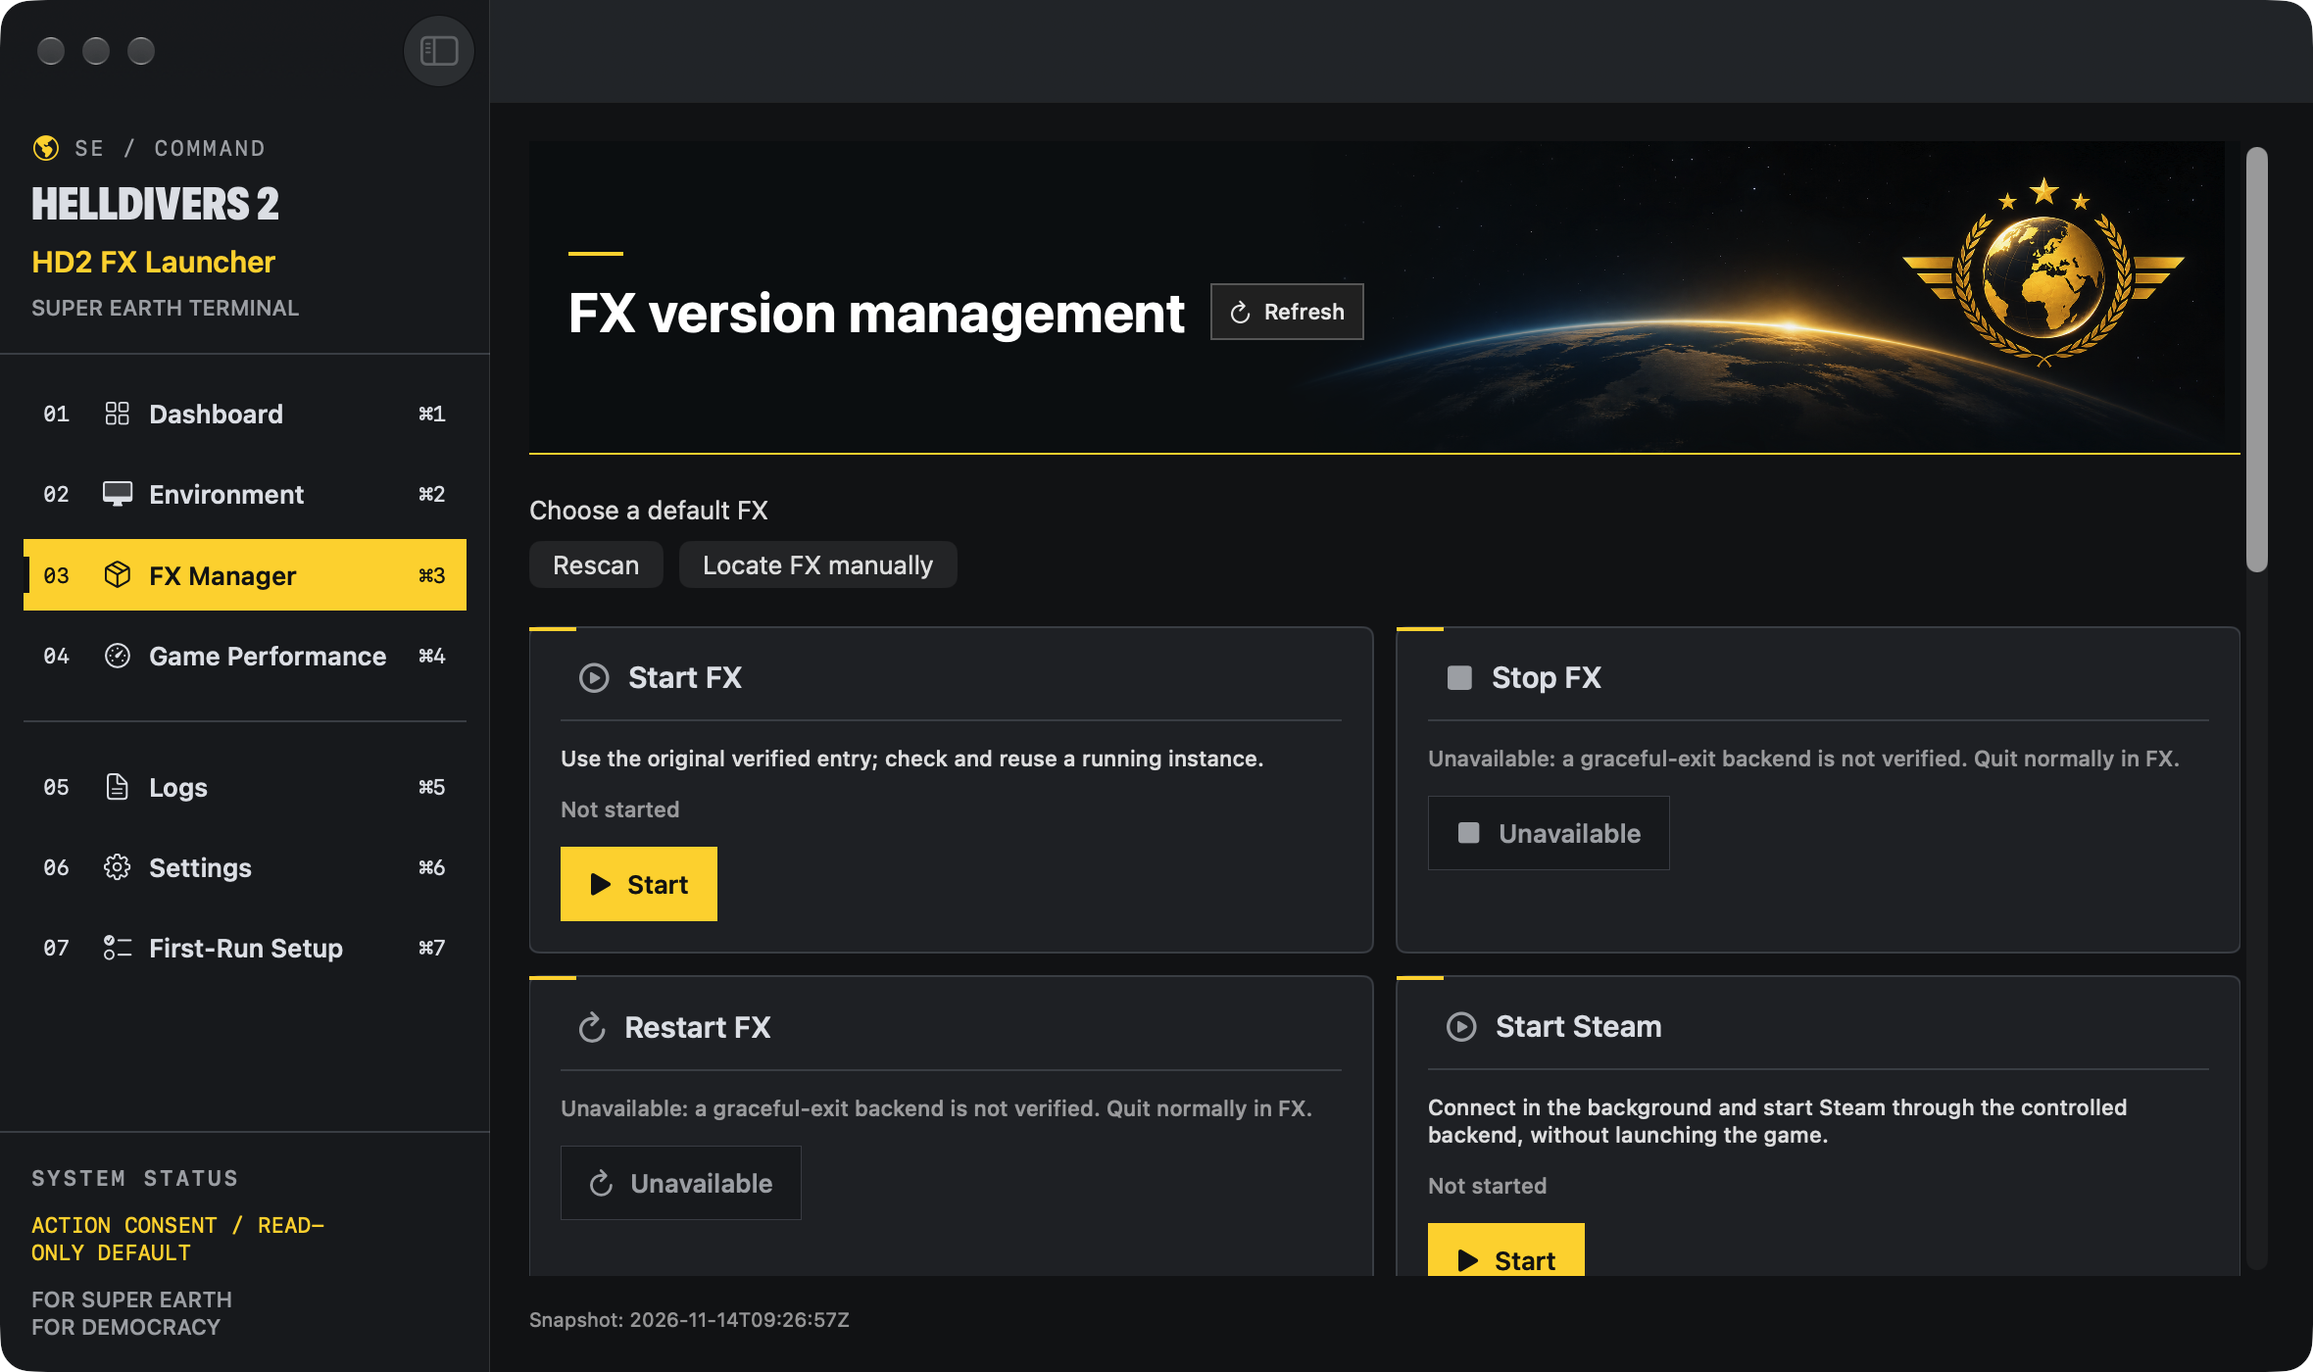
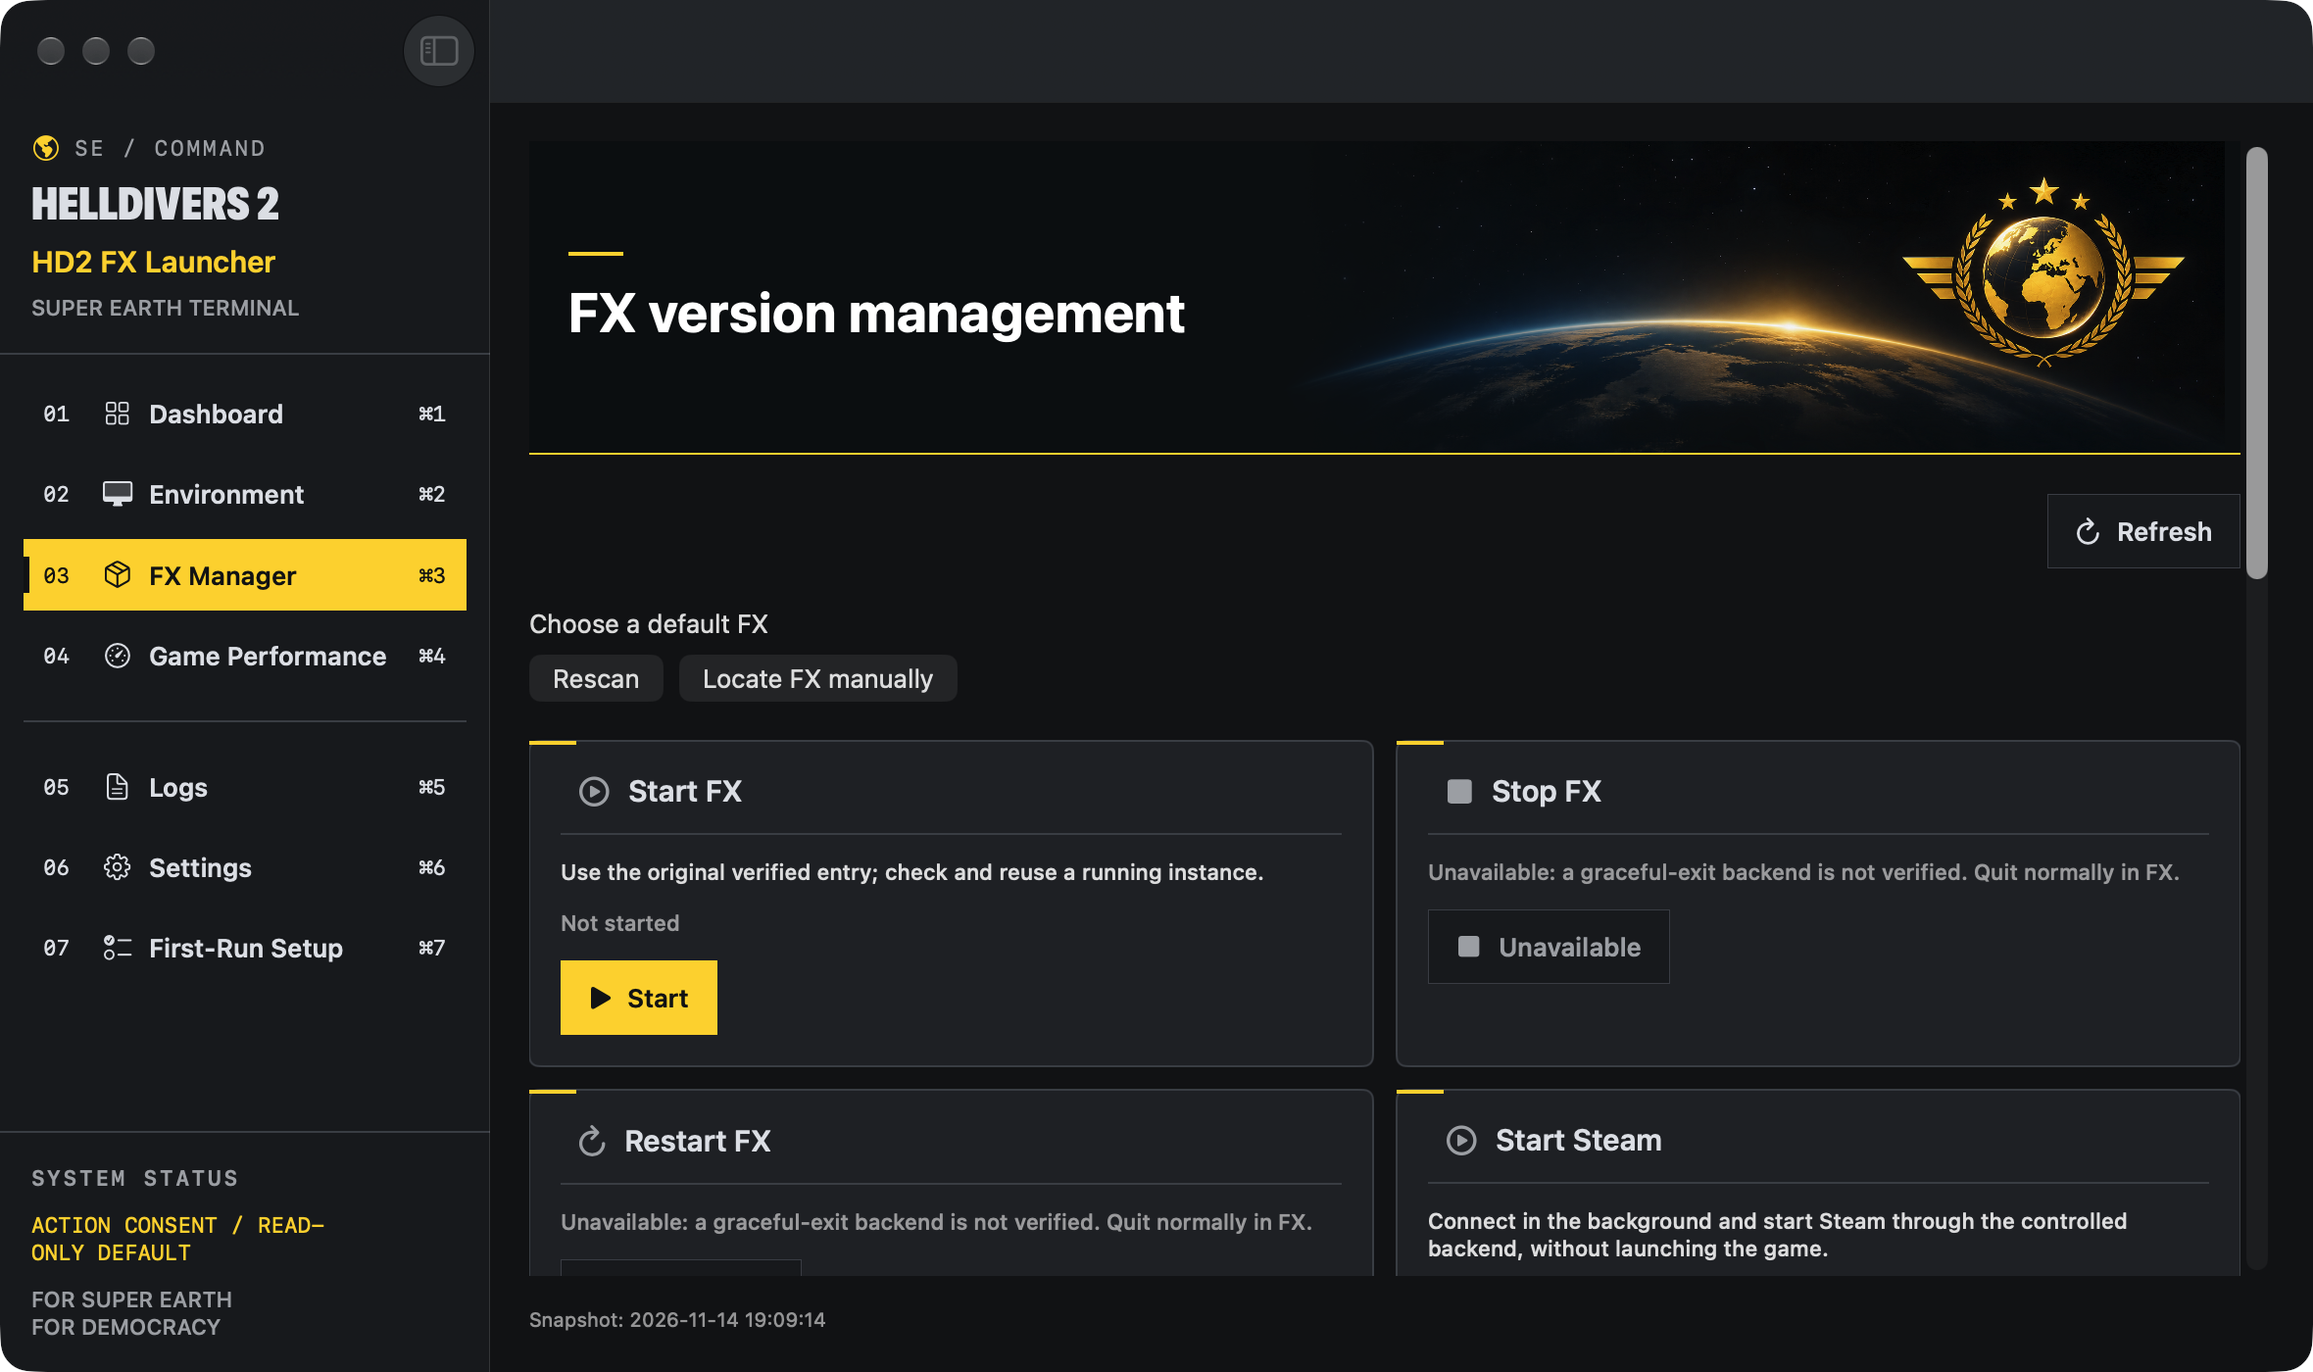
ui: unify snapshot refresh and design standards

diff --git a/native-app/App/DesignSystem/TacticalComponents.swift b/native-app/App/DesignSystem/TacticalComponents.swift
@@ -59,17 +59,9 @@ struct FXTechnicalDetails: View {
     @ObservedObject var tasks: TaskManager
     private var selected: [String: JSONValue] { state.fxSelection.selected ?? [:] }
 
+    // Use the existing inspection result; hashing bundle resources in body blocks the main thread.
     private var resourceRows: [JSONValue] {
-        state.targetInspection["resource_files"]?.array ?? LaunchResources.report()["resource_files"]?.array ?? []
-    }
-    private var resourceState: String {
-        let stateText = LaunchResources.gvproxyState().state
-        switch stateText {
-        case "ready": return state.t("ui.130")
-        case "missing": return state.t("ui.209")
-        case "hash_mismatch": return state.t("ui.fx.statusFailed")
-        default: return state.t("ui.041")
-        }
+        state.targetInspection["resource_files"]?.array ?? []
     }
     private var preflightText: String {
         if let error = state.targetInspectionError { return error.code }
@@ -96,6 +88,9 @@ struct FXTechnicalDetails: View {
             }
             TacticalDivider()
             TacticalSectionHeader(number: "B", title: state.t("ui.fx.details.resources"), symbol: "shippingbox")
+            if resourceRows.isEmpty {
+                Text(state.t("ui.208")).font(TacticalTypography.caption).foregroundStyle(.secondary)
+            }
             ForEach(Array(resourceRows.enumerated()), id: \.offset) { _, row in
                 let name = row.object["file"]?.text ?? "—"
                 let actual = row.object["actual_sha256"]?.text ?? ""
@@ -295,7 +290,6 @@ struct TacticalNavigationItem: View {
 // One shared secondary-page banner. Artwork is bundled, decorative and noninteractive.
 struct TacticalPageHeader: View {
     let title: String
-    var refreshState: AppState? = nil
     private let height: CGFloat = 160
     var body: some View {
         GeometryReader { geometry in
@@ -320,13 +314,9 @@ struct TacticalPageHeader: View {
                         Text(title).font(TacticalTypography.page).foregroundStyle(.white)
                             .fixedSize(horizontal: false, vertical: true)
                             .accessibilityIdentifier("page.title").accessibilityAddTraits(.isHeader)
-                        if let refreshState {
-                            TacticalRefreshButton(state: refreshState, tasks: refreshState.tasks)
-                                .fixedSize()
-                        }
                     }
                 }
-                // Reserve the right-hand emblem region so neither title nor button covers it.
+                // Reserve the right-hand emblem region for the artwork.
                 .frame(width: max(1, geometry.size.width - 230), alignment: .leading)
                 .padding(.leading, 20)
             }
@@ -426,21 +416,16 @@ struct TacticalRefreshButton: View {
     @ObservedObject var state: AppState
     @ObservedObject var tasks: TaskManager
     var body: some View {
-        Button { state.refresh() } label: {
-            HStack(spacing: 6) {
-                if state.refreshing { ProgressView().controlSize(.mini) }
-                else { Image(systemName: "arrow.clockwise") }
-                Text(state.t("ui.262"))
-            }.font(TacticalTypography.caption).padding(.horizontal, 9).padding(.vertical, 7)
+        HStack {
+            Spacer(minLength: 0)
+            TacticalButton(title: state.t("ui.262"), symbol: "arrow.clockwise",
+                           loading: state.refreshing,
+                           disabledReason: tasks.busy ? state.t("ui.016") : nil) {
+                state.refresh()
+            }
+            .help(state.t("ui.263"))
+            .accessibilityIdentifier("refresh")
         }
-        .buttonStyle(.plain)
-        .foregroundStyle(Color(white: 0.92))
-        .background(Color(white: 0.14))
-        .overlay(Rectangle().stroke(Color(white: 0.38), lineWidth: 1))
-        .opacity(tasks.busy ? 0.55 : 1)
-        .disabled(tasks.busy)
-        .help(state.t("ui.263"))
-        .accessibilityIdentifier("refresh")
     }
 }
 

diff --git a/native-app/Views/LogsView.swift b/native-app/Views/LogsView.swift
@@ -55,7 +55,8 @@ struct LogsView: View {
     var body: some View {
         let c = TacticalColors(scheme: scheme)
         VStack(alignment: .leading, spacing: 18) {
-            TacticalPageHeader(title: state.t("ui.306"), refreshState: state)
+            TacticalPageHeader(title: state.t("ui.306"))
+            TacticalRefreshButton(state: state, tasks: state.tasks)
             TacticalWarningBanner(text: state.t("ui.017"))
             if exportFailed { TacticalWarningBanner(text: state.t("ui.logs.exportFailed"), isError: true) }
             DisclosureGroup(state.t("ui.096")) { LegacyOperationsView(state: state, scope: "logs") }

diff --git a/native-app/Views/FirstRunSetupView.swift b/native-app/Views/FirstRunSetupView.swift
@@ -45,7 +45,7 @@ struct FirstRunSetupView: View {
             DisclosureGroup(state.t("ui.workflow.advanced")) {
             TacticalPanel(number: "1", title: state.t("ui.setup.fx"), symbol: "shippingbox") {
                 HStack {
-                    Button(state.t("ui.fx.rescan")) { state.scanFX() }
+                    Button(state.t("ui.fx.rescan")) { state.scanFX() }.disabled(tasks.busy)
                     Button(state.t("ui.setup.choose")) { state.selection = .fx }
                 }
                 Text(state.fxVersion + " · " + (state.fxSelection.selectedPath ?? state.t("ui.368"))).textSelection(.enabled)

diff --git a/native-app/Views/EnvironmentView.swift b/native-app/Views/EnvironmentView.swift
@@ -25,7 +25,8 @@ struct EnvironmentView: View {
     }
     var body: some View {
         VStack(alignment: .leading, spacing: 20) {
-            TacticalPageHeader(title: state.t("ui.108"), refreshState: state)
+            TacticalPageHeader(title: state.t("ui.108"))
+            TacticalRefreshButton(state: state, tasks: state.tasks)
             GUIOperationsPanel(state: state, tasks: state.tasks)
             TacticalButton(title: state.t("ui.ssh.test"), symbol: "network", disabledReason: state.tasks.busy ? state.t("ui.016") : nil) {
                 state.operationSelection = NativeOperation(method: "test_ssh")

diff --git a/native-app/Views/FXManagerView.swift b/native-app/Views/FXManagerView.swift
@@ -6,7 +6,8 @@ struct FXManagerView: View {
     @State private var locatingFX = false
     var body: some View {
         VStack(alignment: .leading, spacing: 20) {
-            TacticalPageHeader(title: state.t("ui.124"), refreshState: state)
+            TacticalPageHeader(title: state.t("ui.124"))
+            TacticalRefreshButton(state: state, tasks: state.tasks)
             if state.results["list_fx_versions"]?["scan_incomplete"]?.boolean == true {
                 TacticalWarningBanner(text: scanWarning + " " + state.t("ui.357"))
             }

diff --git a/AGENTS.md b/AGENTS.md
@@ -1,7 +1,7 @@
 # HD2FXNative development rules
 
-Instruction version: **v1.2.24** · Updated: **2026-11-14**.
-Change: limit worktree creation and require safe completion review. Instruction version is independent of App version.
+Instruction version: **v1.2.25** · Updated: **2026-11-14**.
+Change: establish shared UI design standards and review requirements. Instruction version is independent of App version.
 
 ## Authority and task lifecycle
 
@@ -37,3 +37,15 @@ Change: limit worktree creation and require safe completion review. Instruction 
 - Typical commands are in the handoff; `script/check_docs.py`, Native localization and screenshot provenance gates apply where affected. Release requires clean committed source, fresh arm64 build, resources/icon/locales, ad-hoc or authorized signing, package validation and separate artifact hashes. Never relabel an old build as new.
 - Distinguish main implementation, branch candidate, automated PASS, blocked/incomplete and pending user hardware acceptance. Compilation/Mock/process detection never proves current game menu, single-player, EAC or multiplayer success. Report command/source/results honestly, including failed gates and unverified installation/rollback/relaunch.
 - Finish with a concise report of changes, tests, commit, remote branch/push, main integration and unresolved issues. Mark COMPLETED only after required tests, commit, push, remote containment, main decision and required live acceptance; otherwise use PARTIAL or BLOCKED with the reason. Continue independent work when blocked. Default to no extra reports or screenshots unless needed for evidence, investigation, audit or release. Existing successful historical records remain historical. Update this instruction version for rule changes, without accumulating entire old prompts.
+
+## UI Design Standards
+
+All subsequent UI work must first follow `docs/UI_DESIGN_GUIDELINES.md`: read the rules, reuse existing components, implement, review consistency and all ten languages, then verify and commit. This section supersedes older instructions requiring controls beside page titles.
+
+- Maintain the dark, yellow-accented HELLDIVERS 2 tactical style, consistent hierarchy, cards, spacing and restrained decoration. Titles and necessary explanations belong in headers; place actions in the content area.
+- Reuse shared buttons and cards. Review idle, hover, pressed, disabled, loading and, when applicable, success and failure states. Do not duplicate an operation or introduce unstyled default buttons.
+- Before adding refresh, consider an existing action or event-driven updates. A necessary independent refresh belongs at the right of a content toolbar and uses the shared refresh component; prevent duplicate requests and show progress.
+- Preserve consistent margins, button heights, card spacing, icon sizes, alignment and action placement. Adapt to narrow windows and long text.
+- Localize all visible additions in zh-CN, en, ja, ko, ru, es, de, fr, pt-BR and zh-TW; do not hardcode UI prose. Check long translations for clipping.
+- Preserve the SwiftUI + AppKit hybrid: SwiftUI owns presentation and normal interactions, AppKit native macOS capabilities, and the existing Swift Service Layer business state. Components must not create a duplicate business state system.
+- Review changed pages for visual consistency, action placement and duplication, clipping, loading, errors, accessibility and ten-language adaptation. Provide real App screenshots for substantial visual changes; routine code changes do not require screenshots.

diff --git a/docs/UI_DESIGN_GUIDELINES.md b/docs/UI_DESIGN_GUIDELINES.md
@@ -1,0 +1,28 @@
+# UI design guidelines
+
+Read this document before UI development. Reuse the implementation in `native-app/App/DesignSystem/TacticalComponents.swift` and its `TacticalColors` and `TacticalTypography` definitions as the source of truth for colors, typography, spacing and sizing. Avoid copying token values into documentation or new views.
+
+## Visual language and layout
+
+Keep the dark HELLDIVERS 2 tactical identity, yellow emphasis for primary actions, clear information hierarchy and restrained decoration. Use `TacticalPageHeader` for secondary-page titles and the existing dashboard presentation for the overview. Keep action controls in content areas, aligned consistently, and use adaptive layouts for narrow windows and long translations. Use `TacticalPanel`, metrics and status badges for related evidence; distinguish unchecked, checking, success, warning, failure and uncertainty without inventing health.
+
+## Actions and refresh
+
+Use `TacticalButton` and `TacticalButtonStyle` for primary and secondary actions, preserving hover, pressed, focus, disabled and loading feedback. Convey success and failure using actual service results. Avoid duplicate actions. Prefer event-driven updates and existing detection actions over independent refresh. When an independent snapshot refresh is necessary, place `TacticalRefreshButton` at the right of the content toolbar; it uses existing AppState and TaskManager, disables repeat requests and displays progress. Scoped scans and global snapshots have different purposes and must be labelled accordingly. Do not put action buttons beside page titles.
+
+## Loading and dialogs
+
+Use the shared button loading state or a native progress indicator for ongoing work; bind it to the existing service/task state. Show real errors and recovery options. Use sheets or dialogs for credentials, target selection, important conflicts and consequential confirmation; retain existing safeguards and avoid unnecessary modal interruptions.
+
+## Localization and accessibility
+
+Maintain all ten existing languages through the localization resources. Avoid hardcoded user-visible prose; test long text at narrow widths without truncating meaningful information. Label controls for VoiceOver, hide decorative icons and artwork, preserve keyboard focus and shortcuts, and do not convey status by color alone.
+
+## New page checklist
+
+- Read AGENTS.md and this guide; reuse shared components and design tokens.
+- Check title, margins, action placement, card hierarchy and narrow layouts.
+- Check for duplicate actions and determine whether refresh is necessary.
+- Verify hover, pressed, disabled, loading, success and error states where applicable.
+- Check VoiceOver labels, keyboard navigation and all ten languages, including long translations.
+- Build and run appropriate tests; inspect real App screenshots for substantial visual changes and report any missing verification honestly.

diff --git a/CHANGELOG.md b/CHANGELOG.md
@@ -8,6 +8,8 @@ v1.0.0 (2026111403) is published. Game and complete update acceptance remain lim
 
 ## Unreleased
 
+- Move snapshot refresh into a shared content-area action on Environment, FX and Logs; avoid repeated resource hashing during FX view updates. Add shared UI design standards and disable first-run rescan during tasks.
+
 - Stream bounded, redacted workflow and launch events with per-attempt IDs, component progress and elapsed times; display local timestamps while exporting original ISO 8601 timestamps. Bound Steam/game waiting and stop showing 83% after failure. Live full launch and end-to-end EAC/gameplay validation remain pending.
 
 - Align the displayed app name with system language: Simplified and Traditional Chinese use their respective names, and other languages use HD2 FX Launcher. The internal project and data identities remain unchanged.

diff --git a/README.md b/README.md
@@ -36,6 +36,8 @@ The Dashboard retains five cards: FX, virtual machine, Steam, EAC and multiplaye
 
 ### Features
 
+**Unreleased UI:** Environment, FX Manager and Logs use a shared content-area snapshot refresh. The FX details view reuses inspection evidence to avoid repeated hashing during redraw.
+
 **Development candidate:** The Logs page displays local system time, streams bounded task events, supports auto-scroll and exports redacted raw ISO 8601 timestamps. Launch command success, process detection, window and gameplay remain separate; game-window and gameplay evidence are not automatic. This change is not included in the published v1.0.0 DMG.
 
 - Dashboard starts the guarded HELLDIVERS 2 launch workflow. FX Manager inspects the selected FX installation and exposes supported FX/Steam actions.
